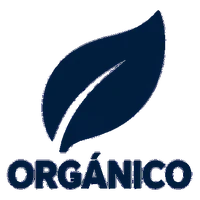
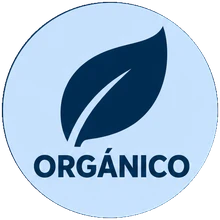
Sellos: uno solo juego (sellos 5), solo en la ficha abierta y clickeables

diff --git a/index.html b/index.html
@@ -690,11 +690,10 @@ textarea.co-input{resize:vertical;min-height:60px;font-family:inherit}
   font:800 11.5px/1 'Montserrat',sans-serif;letter-spacing:.12em;text-transform:uppercase;
   color:var(--muted-fg)}
 .cdds-fila{display:flex;flex-wrap:wrap;gap:8px}
-.cdds-chip{display:inline-flex;align-items:center;gap:7px;padding:8px 13px 8px 9px;
+.cdds-chip{display:inline-flex;align-items:center;gap:7px;padding:8px 14px;
   border:1.5px solid var(--border);border-radius:999px;background:var(--card);
   color:var(--fg);font:600 13.5px/1 'Montserrat',sans-serif;cursor:pointer;min-height:42px;
   transition:background .15s,border-color .15s,color .15s}
-.cdds-chip img{width:21px;height:21px;flex:0 0 auto;object-fit:contain}
 .cdds-chip b{font-weight:800;opacity:.45;font-size:12.5px}
 .cdds-chip:hover{border-color:var(--azul-mid)}
 .cdds-chip.on{background:var(--azul);border-color:var(--azul);color:#fff}
@@ -706,7 +705,6 @@ textarea.co-input{resize:vertical;min-height:60px;font-family:inherit}
 .aviso-sello{display:flex;align-items:center;gap:10px;flex-wrap:wrap;margin:0 0 16px;
   padding:9px 14px;border-radius:12px;background:var(--min-sky);border:1px solid var(--azul-light);
   color:var(--min-blue-deep)}
-.aviso-sello img{width:26px;height:26px;flex:0 0 auto;object-fit:contain}
 .aviso-sello span{font-size:14.5px}
 .aviso-sello b{font-weight:800}
 .aviso-sello button{margin-left:auto;padding:7px 14px;border:1.5px solid var(--azul-mid);
@@ -719,11 +717,10 @@ textarea.co-input{resize:vertical;min-height:60px;font-family:inherit}
    Debajo del título de la categoría, porque no son categorías: se combinan con la
    que ya tenés puesta. */
 .fila-sellos{display:flex;flex-wrap:wrap;gap:8px;margin:0 0 18px}
-.chip-sello{display:inline-flex;align-items:center;gap:7px;padding:6px 15px 6px 7px;
+.chip-sello{display:inline-flex;align-items:center;gap:7px;padding:6px 15px;
   border:1.5px solid var(--border);border-radius:999px;
   background:var(--card);color:var(--muted-fg);font:600 13.5px/1 inherit;cursor:pointer;
   min-height:44px;transition:background .15s,border-color .15s,color .15s}
-.chip-sello img{width:22px;height:22px;flex:0 0 auto}
 .chip-sello b{font-weight:800;opacity:.6;margin-left:1px}
 .chip-sello:hover{border-color:var(--azul-mid);color:var(--azul-dark)}
 .chip-sello.on{background:var(--azul);border-color:var(--azul);color:#fff}
@@ -737,26 +734,25 @@ textarea.co-input{resize:vertical;min-height:60px;font-family:inherit}
   .chip-sello{flex:0 0 auto;font-size:13px;padding:8px 13px}
 }
 
-/* ── Sellos sobre la foto ──
-   Abajo a la izquierda: arriba a la izquierda va el descuento y arriba a la derecha
-   el corazón, así que es la única esquina libre. Los dos símbolos comparten una
-   misma pastilla para leerse como un conjunto. Acá va el símbolo solo: cualquier
-   palabra a este tamaño es ilegible. */
-.pcard-img{position:relative}
-.sellos-foto{position:absolute;bottom:8px;left:8px;z-index:2;display:inline-flex;
-  align-items:center;gap:6px;padding:5px 10px;border-radius:999px;
-  background:rgba(255,255,255,.95);border:1px solid rgba(45,84,128,.18);
-  box-shadow:0 1px 6px rgba(20,45,70,.16);pointer-events:none}
-.pcard-img .sellos-foto img.sello-f{width:19px;height:19px;display:block;padding:0;
-  object-fit:contain}
+/* ── Sellos ──
+   Van sólo en la ficha abierta, y grandes: la palabra está dentro del sello, así que
+   achicado no se lee. Se tocan y abren ese filtro, igual que la marca. */
+.product-detail-sellos{display:flex;flex-wrap:wrap;gap:12px;margin:14px 0 4px}
+.product-detail-sellos .sello-d{display:block;padding:0;border:0;background:none;
+  border-radius:50%;cursor:pointer;line-height:0;
+  transition:transform .15s ease,box-shadow .15s ease}
+.product-detail-sellos .sello-d img{width:92px;height:92px;display:block;object-fit:contain}
+.product-detail-sellos .sello-d:hover{transform:translateY(-2px);
+  box-shadow:0 4px 14px rgba(20,45,70,.18)}
+.product-detail-sellos .sello-d:focus-visible{outline:2px solid var(--azul);outline-offset:3px}
 @media(max-width:767px){
-  .sellos-foto{bottom:6px;left:6px;gap:5px;padding:4px 9px}
-  .pcard-img .sellos-foto img.sello-f{width:17px;height:17px}
+  .product-detail-sellos{gap:10px}
+  .product-detail-sellos .sello-d img{width:80px;height:80px}
 }
-/* En la ficha abierta va el sello con la palabra, que ahí sí entra. */
-.product-detail-sellos{display:flex;flex-wrap:wrap;gap:14px;margin:12px 0 4px}
-.product-detail-sellos img.sello-d{width:74px;height:74px;display:block;padding:0;
-  object-fit:contain}
+@media(prefers-reduced-motion:reduce){
+  .product-detail-sellos .sello-d{transition:none}
+  .product-detail-sellos .sello-d:hover{transform:none}
+}
 
 /* ── Productos relacionados, al final de la card abierta ── */
 :root{--pd-aire:18px}   /* el mismo aire lateral que usa la ficha en el celular */
@@ -3278,26 +3274,17 @@ const SELLOS_TIENDA=[
   {id:'organico', chip:'Orgánico'},
   {id:'proteico', chip:'Proteico'}
 ];
-/* Dos juegos, cada uno para su lugar:
-   ico-*  → sólo el símbolo, para la tarjeta, donde no entra ninguna palabra.
-   sello-*→ el símbolo con la palabra debajo, para la ficha y los filtros. */
-const _selloIco=(id)=>'ico-'+id+'.webp';
-const _selloImg=(id,chico)=>'sello-'+id+(chico?'-ch':'')+'.webp';
+/* Un solo juego de sellos en toda la tienda, todos del mismo diámetro. Van en la
+   ficha abierta y en los filtros; en la tarjeta no entran: a ese tamaño la palabra
+   de adentro no se lee. */
+const _selloImg=(id)=>'sello-'+id+'.webp';
 function _sellosDe(p){
   const s=p[12]&&p[12].sellos;
   if(!s)return[];
   return SELLOS_TIENDA.filter(x=>s[x.id]);
 }
-function _sellosHTML(p){
-  const l=_sellosDe(p);
-  if(!l.length)return'';
-  // Dos como máximo en la tarjeta: con tres ya tapan la foto.
-  // Los dos juntos en una pastilla: sueltos se leían como dos cosas distintas y
-  // ocupaban el doble de alto.
-  return '<div class="sellos-foto" title="'+l.slice(0,2).map(x=>x.chip).join(' · ')+'">'+
-    l.slice(0,2).map(x=>'<img class="sello-f" src="'+_selloIco(x.id)+'" alt="'+x.chip+'" loading="lazy" decoding="async">').join('')+
-    '</div>';
-}
+/* Los sellos ya no van en la tarjeta: ocupaban lugar y achicados no se leía la
+   palabra de adentro. Sólo en la ficha abierta y en los filtros. */
 
 /* ── NOMBRE, CANTIDAD Y MARCA ─────────────────────────────────────────────────
    Un envasado se nombra "Aceite de coco neutro 200 ml · ENTRENUTS": el nombre en
@@ -3391,7 +3378,7 @@ function openProductDetail(pid){
     <button class="product-detail-close" type="button" onclick="closeProductDetail()" aria-label="Cerrar">×</button>
   </div><div class="product-detail-shell"><div class="product-detail-main">
     <div class="product-detail-image" style="background:${fondo}">${src?`<img src="${src}" alt="${p[2]}" decoding="async">`:'<span class="product-image-placeholder" aria-hidden="true"></span>'}</div>
-    <div class="product-detail-copy"><div class="product-detail-category">${cat?cat.n:'Paladear'}</div><h2 class="product-detail-title">${_tc(p[2])}</h2>${(_envaseDe(p)||_marcaDe(p))&&p[3]!=='Granel'?`<div class="product-detail-meta">${_envaseDe(p)?`<span class="nom-c">${_envaseDe(p)}</span>`:''}${_marcaDe(p)?`<button type="button" class="nom-m nom-m-link" onclick="verMarca('${_marcaDe(p).replace(/'/g,"\\'")}',${p[0]})" title="Ver todo de ${_marcaDe(p)}">${_marcaDe(p)}</button>`:''}</div>`:''}${_sellosDe(p).length?`<div class="product-detail-sellos">${_sellosDe(p).map(x=>'<img class="sello-d" src="'+_selloImg(x.id)+'" alt="'+x.chip+'" title="'+x.chip+'" decoding="async">').join('')}</div>`:''}<div class="product-detail-info">${info}</div>
+    <div class="product-detail-copy"><div class="product-detail-category">${cat?cat.n:'Paladear'}</div><h2 class="product-detail-title">${_tc(p[2])}</h2>${(_envaseDe(p)||_marcaDe(p))&&p[3]!=='Granel'?`<div class="product-detail-meta">${_envaseDe(p)?`<span class="nom-c">${_envaseDe(p)}</span>`:''}${_marcaDe(p)?`<button type="button" class="nom-m nom-m-link" onclick="verMarca('${_marcaDe(p).replace(/'/g,"\\'")}',${p[0]})" title="Ver todo de ${_marcaDe(p)}">${_marcaDe(p)}</button>`:''}</div>`:''}${_sellosDe(p).length?`<div class="product-detail-sellos">${_sellosDe(p).map(x=>'<button type="button" class="sello-d" onclick="verSello(\''+x.id+'\','+p[0]+')" title="Ver todo lo '+x.chip+'"><img src="'+_selloImg(x.id)+'" alt="'+x.chip+'" decoding="async"></button>').join('')}</div>`:''}<div class="product-detail-info">${info}</div>
       <div class="product-detail-buy" id="productDetailCard" data-pid="${p[0]}" data-opt="${opt}">
         ${opts.length>1?`<h3>Elegí la presentación</h3><div class="product-detail-options opt-btns${opts.length>=4?' opt-btns-4':''}">${opciones}</div>`:''}${saboresHTML}
         <div class="prices"><div><span class="price-label">Precio${oferta>0?' (Oferta)':''}</span><div class="price-min">${_priceMinContent(p[7][opt][0],oferta)}</div></div><div><span class="price-label">+$80.000</span><div class="price-may">$${fmt(p[7][opt][1])}</div></div></div>
@@ -3708,7 +3695,7 @@ function _avisoSello(){
   if(!SELLO_ACTIVO)return'';
   const s=SELLOS_TIENDA.find(x=>x.id===SELLO_ACTIVO);
   if(!s)return'';
-  return '<div class="aviso-sello"><img src="'+_selloIco(s.id)+'" alt="">'+
+  return '<div class="aviso-sello">'+
     '<span>Mostrando sólo <b>'+s.chip+'</b></span>'+
     '<button type="button" onclick="filtrarSello(null)">Quitar</button></div>';
 }
@@ -3723,7 +3710,6 @@ function _filaSellos(prods){
   return '<div class="fila-sellos" role="group" aria-label="Filtrar por sello">'+
     hay.map(x=>'<button type="button" class="chip-sello'+(SELLO_ACTIVO===x.id?' on':'')+
       '" onclick="filtrarSello(\''+x.id+'\')">'+
-      '<img src="'+_selloIco(x.id)+'" alt="" loading="lazy" decoding="async">'+
       '<span>'+x.chip+'</span> <b>'+cuenta[x.id]+'</b></button>').join('')+
     (SELLO_ACTIVO?'<button type="button" class="chip-sello chip-limpiar" onclick="filtrarSello(null)">Quitar filtro</button>':'')+
     '</div>';
@@ -3735,6 +3721,24 @@ function filtrarSello(id){
   else { try{ _catalogRenderMode=null; _catalogRenderedProds=null; _catalogRenderedCats=null; }catch(e){} volverInicio(); }
 }
 window.filtrarSello=filtrarSello;
+
+/* Tocar un sello en la ficha abre ese filtro sobre todo el catálogo, igual que tocar
+   la marca abre la marca. */
+function verSello(id){
+  if(!id) return;
+  try{ closeProductDetail(); }catch(e){}
+  try{ _cerrarSugerencias(); }catch(e){}
+  SELLO_ACTIVO = id;
+  activeCatId = null;
+  try{ _catalogRenderMode=null; _catalogRenderedProds=null; _catalogRenderedCats=null; }catch(e){}
+  volverInicio();
+  // Al listado, así se ve enseguida el aviso del filtro y no la portada.
+  setTimeout(function(){
+    const a=document.querySelector('.aviso-sello');
+    if(a) a.scrollIntoView({block:'start',behavior:'smooth'});
+  },60);
+}
+window.verSello=verSello;
 
 function renderProdsHTML(cat,prods,prefix,priorityProductId){
   let h='<button class="back-btn" onclick="volverInicio()">← Volver a todos los productos</button>';
@@ -3789,7 +3793,7 @@ function renderCard(p,prefix,prioritizeImage){
   // la imagen se funde con la tarjeta aunque el fondo no sea blanco puro.
   const _fondo=(p[12]&&p[12].fondo)?` style="background:${p[12].fondo}"`:'';
   const imgLoading=prioritizeImage?'loading="eager" fetchpriority="high"':'loading="lazy"';
-  h+=`<div class="pcard-img"${_fondo}>${hasSrc?`<img src="${p[6]}" alt="${p[2]}" onerror="this.style.display='none'" ${imgLoading} decoding="async">`:`<span class="product-image-placeholder" aria-hidden="true"></span>`}${_sellosHTML(p)}</div>`;
+  h+=`<div class="pcard-img"${_fondo}>${hasSrc?`<img src="${p[6]}" alt="${p[2]}" onerror="this.style.display='none'" ${imgLoading} decoding="async">`:`<span class="product-image-placeholder" aria-hidden="true"></span>`}</div>`;
   h+=`<div class="pcard-body">`;
   h+=`<div class="pcard-head"><div class="pcard-name">${_nomHTML(p)}</div>`;
   if(infoText)h+=`<button class="info-btn" onclick="openProductDetail(${p[0]})" title="Ver detalle" aria-label="Ver detalle"><span aria-hidden="true">i</span></button>`;
@@ -7351,7 +7355,6 @@ function pintarSellosDelMenu(){
   c.innerHTML='<div class="cdds-tit">Filtrar por</div><div class="cdds-fila">'+
     hay.map(x=>'<button type="button" class="cdds-chip'+(SELLO_ACTIVO===x.id?' on':'')+
       '" onclick="filtrarSello(\''+x.id+'\');closeCatsDropdown()">'+
-      '<img src="'+_selloIco(x.id)+'" alt="" loading="lazy" decoding="async">'+
       '<span>'+x.chip+'</span><b>'+cuenta[x.id]+'</b></button>').join('')+
     (SELLO_ACTIVO?'<button type="button" class="cdds-chip cdds-limpiar" onclick="filtrarSello(null);closeCatsDropdown()">Quitar el filtro</button>':'')+
     '</div>';
